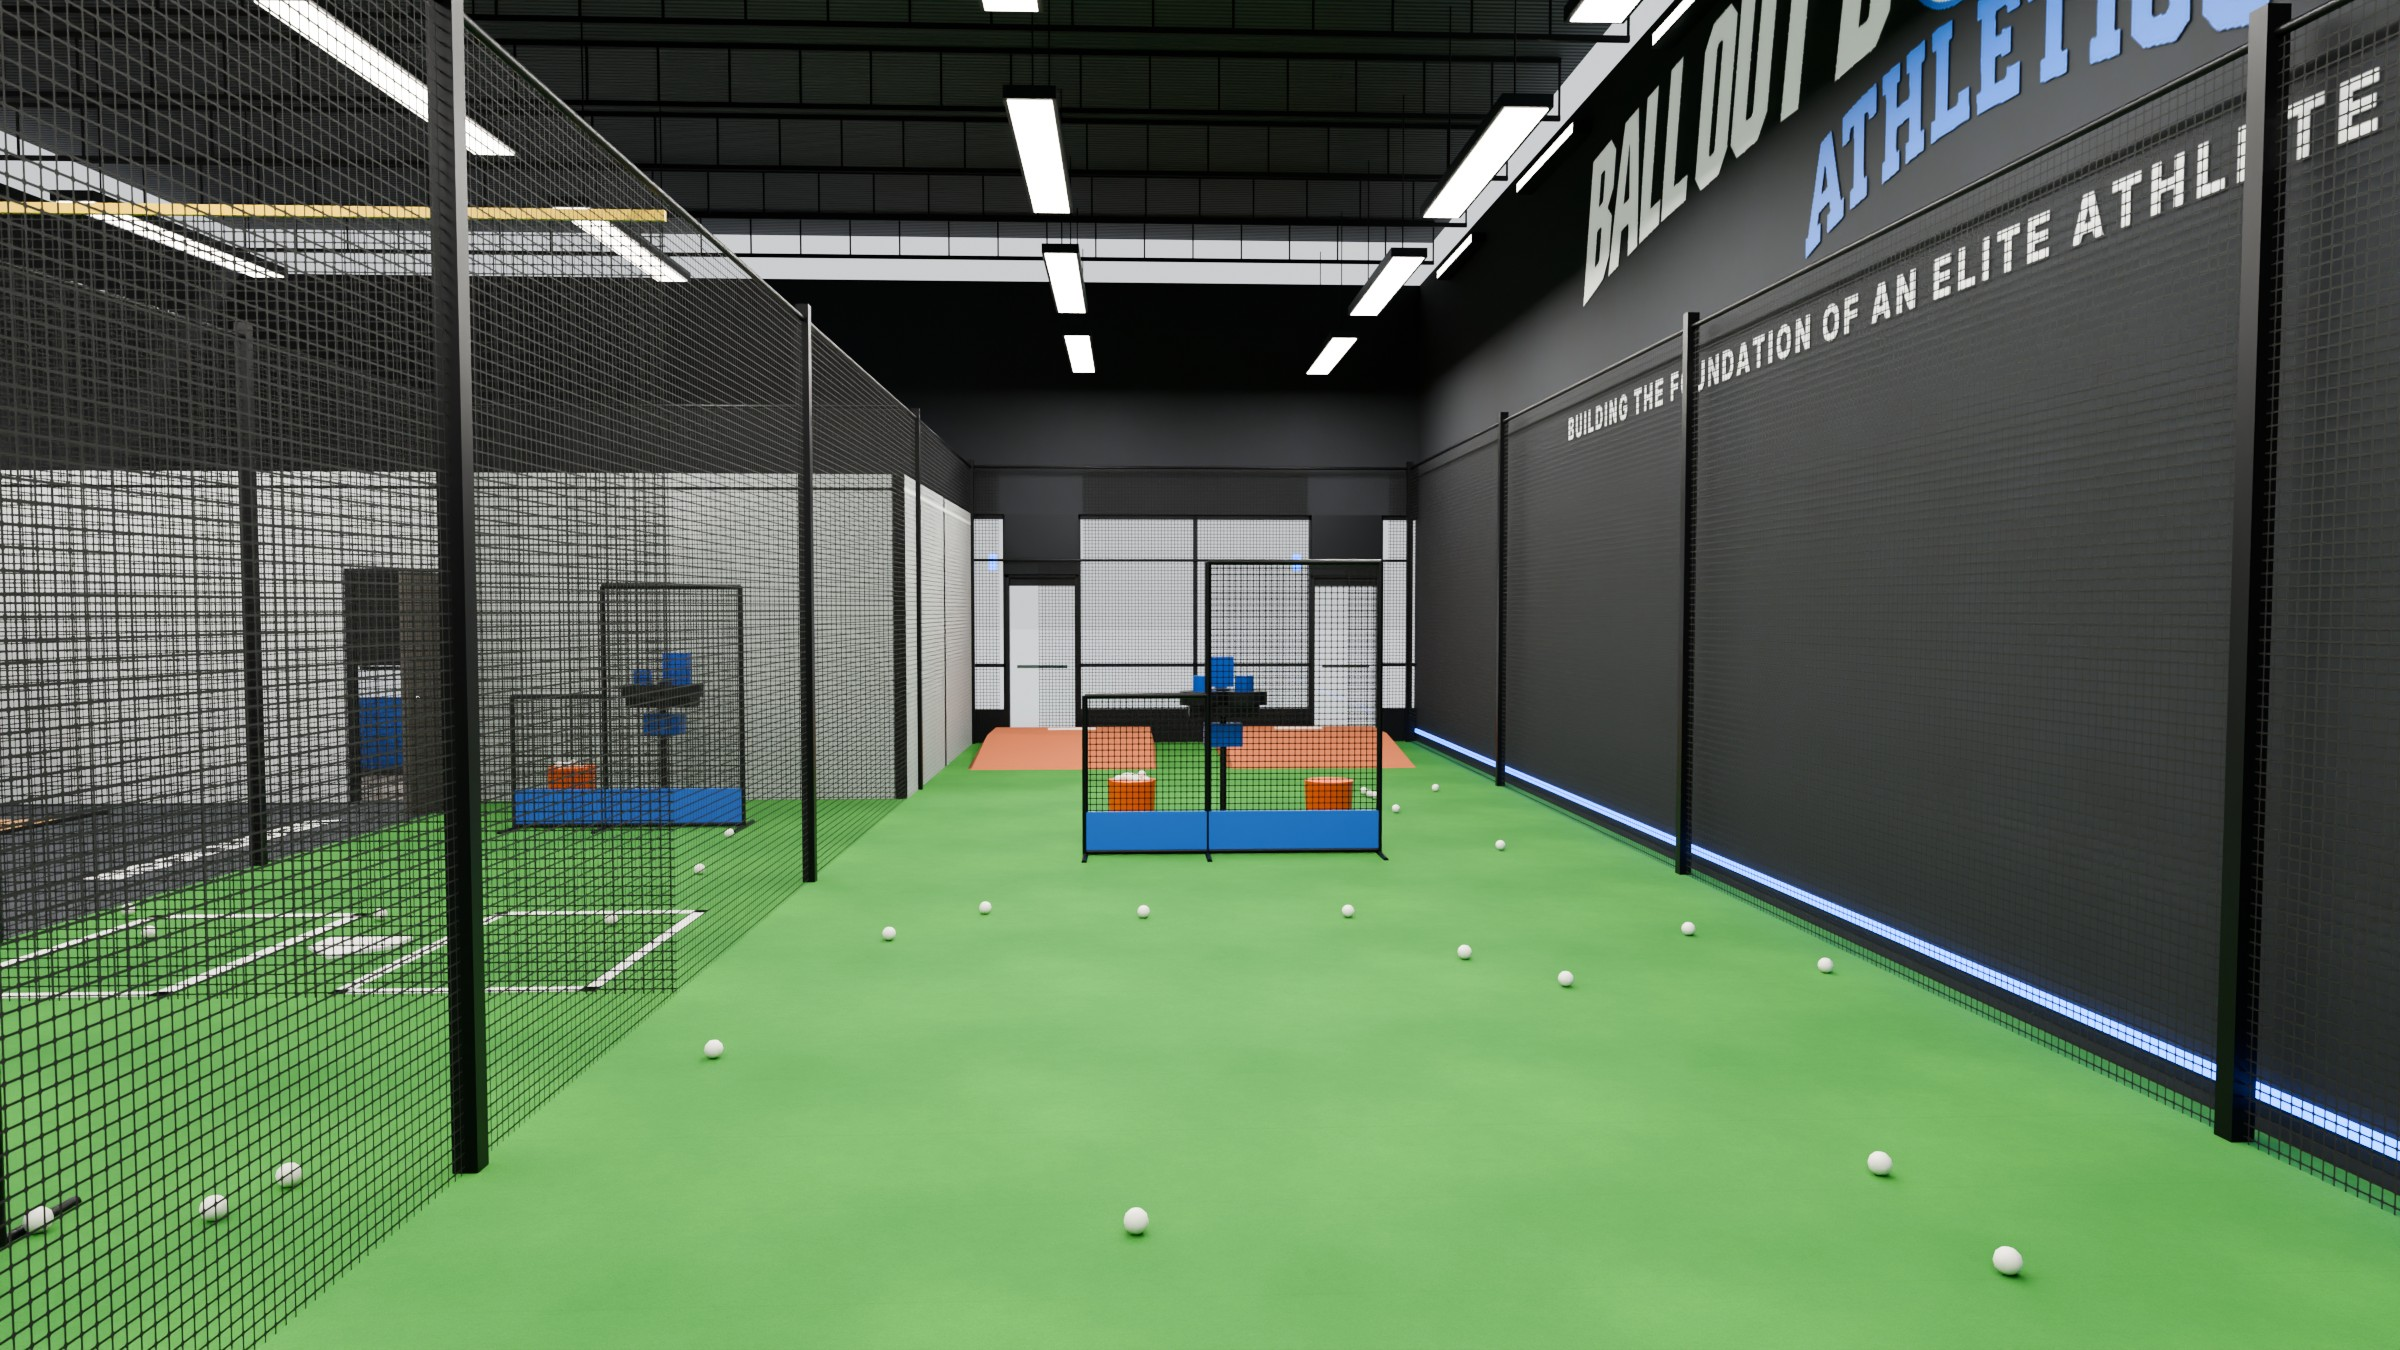
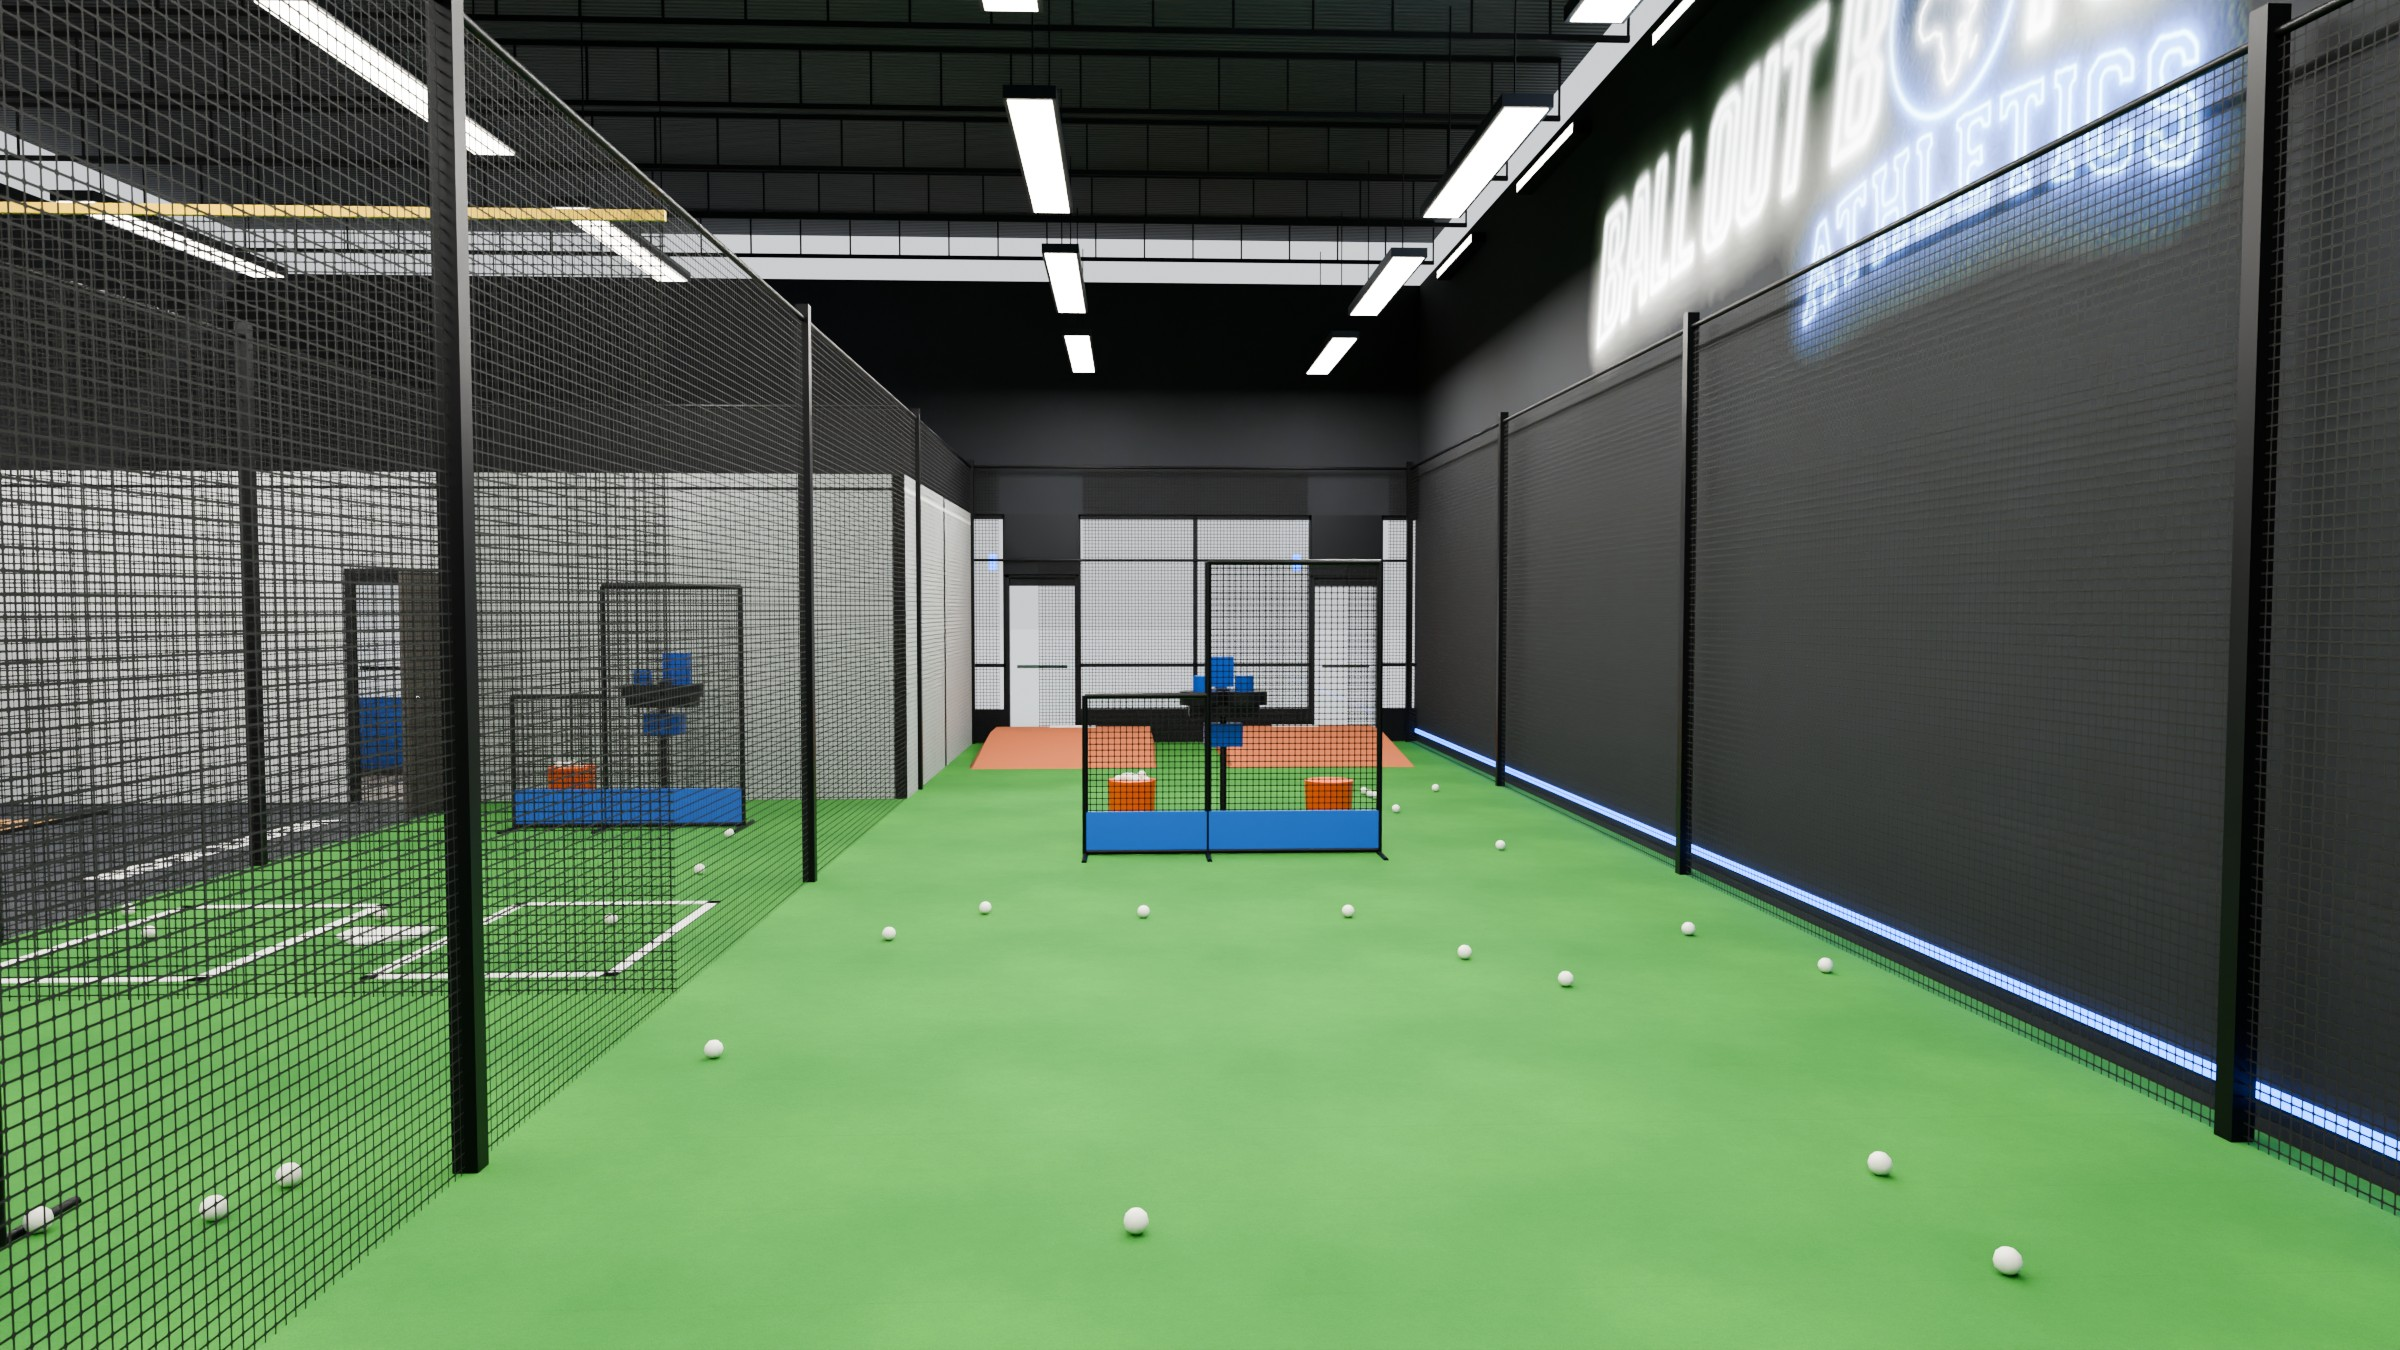
Facility model: one lobby couch on the east wall, two chairs facing the table
Also adds the updated weight room and eye-level renders.

Claude-Session: https://claude.ai/code/session_015h1f7NebmL7qRNLp6yqK3J

diff --git a/facility/tour/index.html b/facility/tour/index.html
@@ -205,7 +205,7 @@ const CENTER = P(25, 38.5, 0);
 const STOPS = [
   { id: "lobby", name: "Lobby", x: 40, y: 3.5, eye: 5.3, yaw: 318, eyebrow: "Front entrance",
     spec: "Reception desk + TV · 2 vending · merch · lounge seating",
-    text: "Athletes and parents check in at the reception desk, with the TV on the wall behind it. Couches and merch wait while sessions run." },
+    text: "Athletes and parents check in at the reception desk, with the TV on the wall behind it. A couch, two chairs and the merch rack wait while sessions run." },
   { id: "office", name: "Coach Ned's Office", x: 25.8, y: 6.6, eye: 5.3, yaw: 245, eyebrow: "Office",
     spec: "Desk · couch + table · TV · extra desk",
     text: "Private space for evaluations, parent meetings and planning each athlete's development." },

diff --git a/facility/scripts/build.py b/facility/scripts/build.py
@@ -1133,15 +1133,16 @@ b.pop()
 b.finish()
 # centred on the wall behind reception: from the storefront (y=0) to the office door frame (y=5.88)
 tv("TV_Lobby", XS + PT + 0.15, 2.94, 6.3, 4.0, 2.3, 90, M["scr_logo"])
-couch("LobbyCouch1", 37.7, 8.5, 42.0, 11.15, "-y", M["fabric_blue"])
-couch("LobbyCouch2", 42.2, 8.5, 46.5, 11.15, "-y", M["fabric_blue"])
+# one couch on the east wall (where the chairs were), facing the coffee table
+couch("LobbyCouch", 47.35, 2.4, 49.95, 7.9, "-x", M["fabric_blue"])
 b = B("LobbyTable", "Props", bevel=0.04)
 b.box(39.6, 5.8, 1.3, 44.8, 7.4, 1.48, M["walnut"])
 for xx in (39.8, 44.4):
     b.box(xx, 5.9, FL, xx + 0.2, 7.3, 1.3, M["black_plastic"])
 b.finish()
-armchair("LobbyChair1", 48.6, 4.0, -90, M["fabric_dark"])
-armchair("LobbyChair2", 48.6, 6.6, -90, M["fabric_dark"])
+# two chairs where the couches were, backs to the restroom wall, facing the table
+armchair("LobbyChair1", 40.85, 9.9, 0, M["fabric_dark"])
+armchair("LobbyChair2", 43.55, 9.9, 0, M["fabric_dark"])
 # merch: clothing rack + wall shelf, x 46.9..49.7, y 8.4..11
 b = B("MerchRack", "Props", bevel=0.01)
 b.box(47.0, 8.4, FL, 47.1, 8.5, 5.4, M["chrome"])
